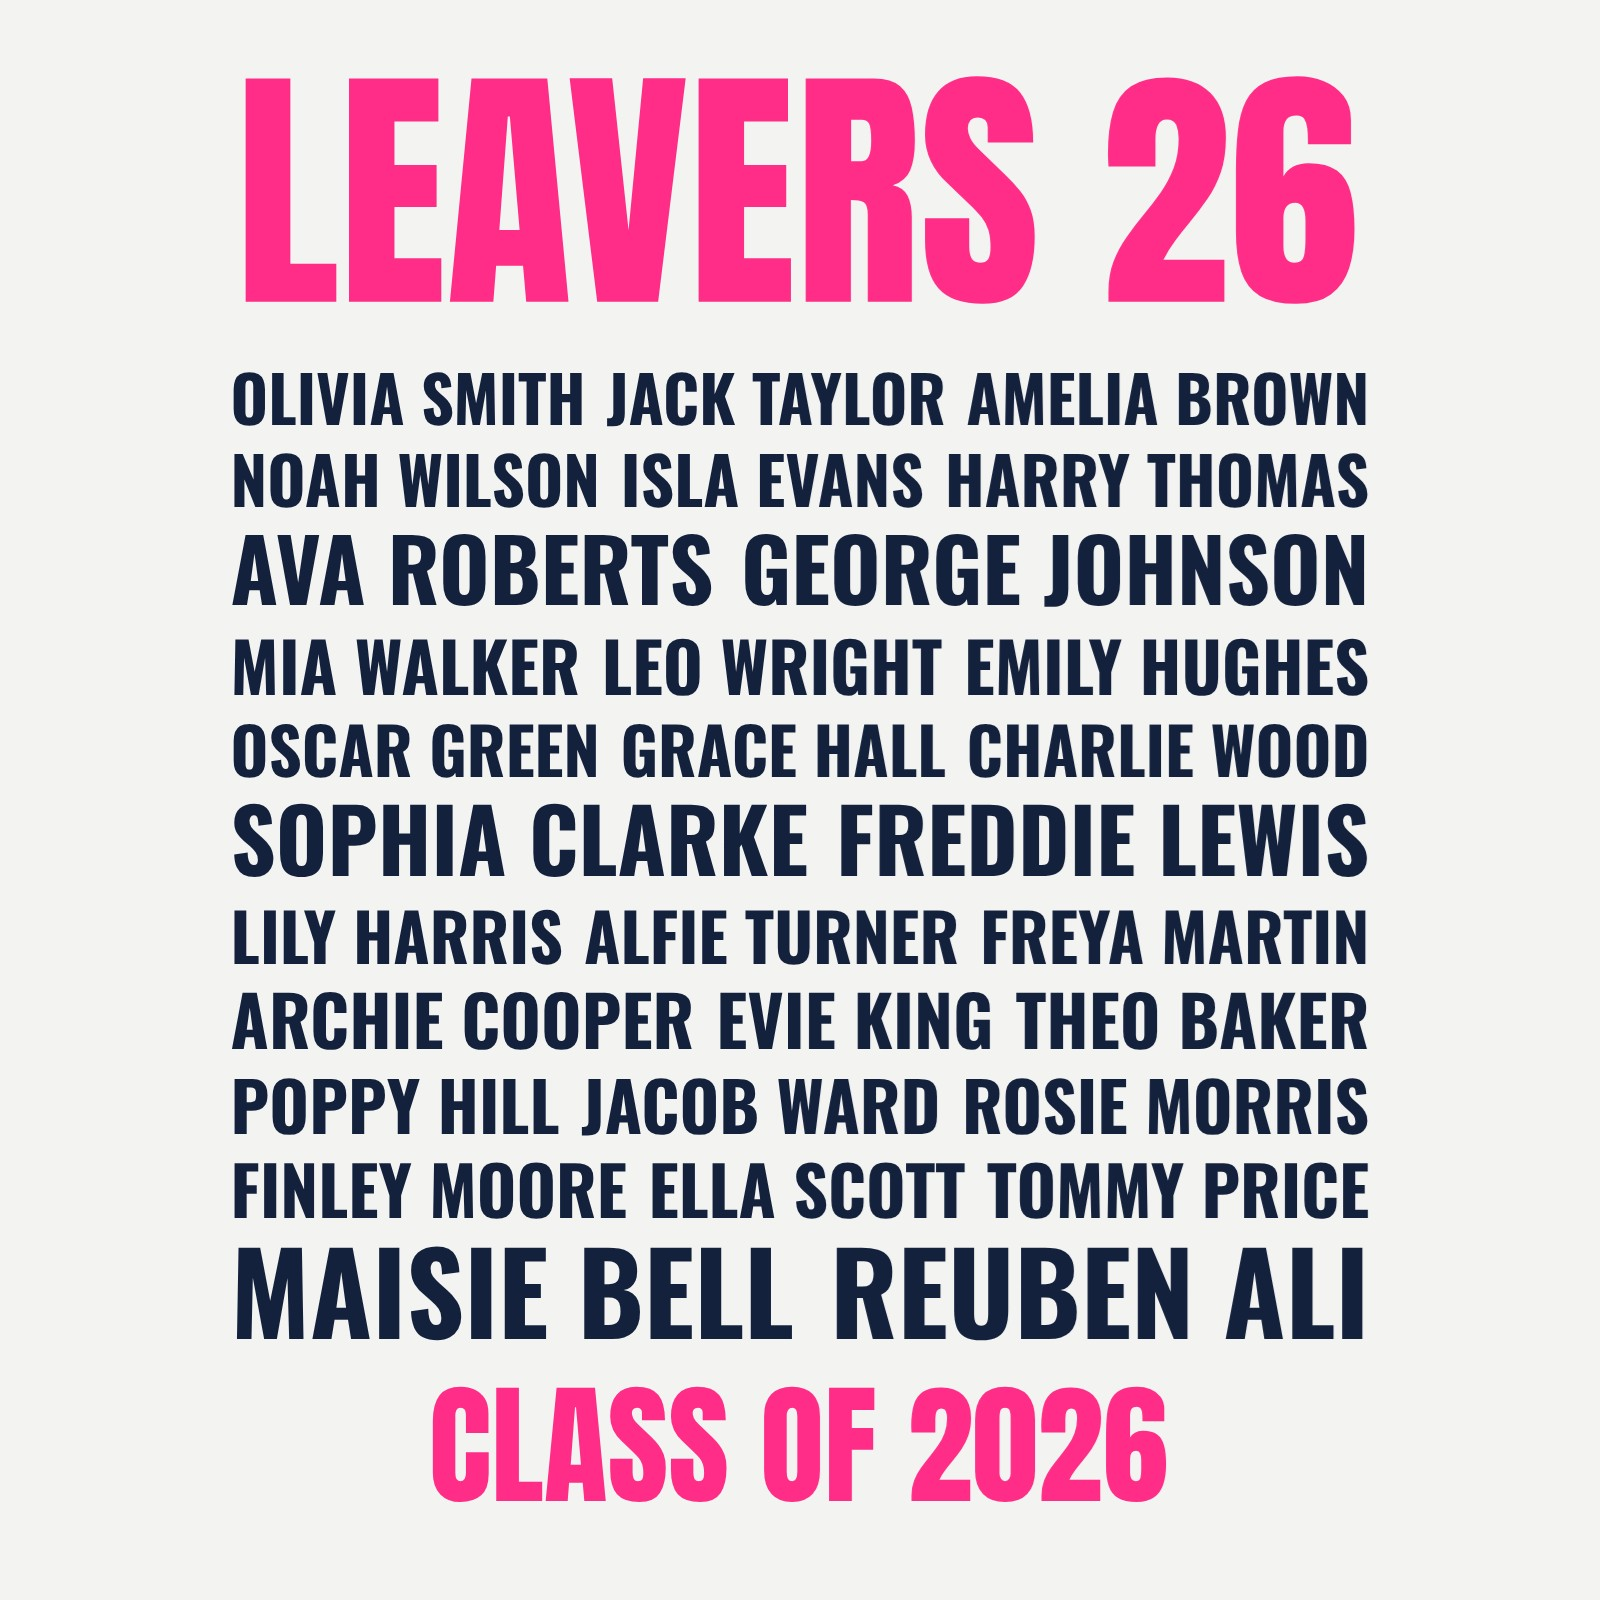
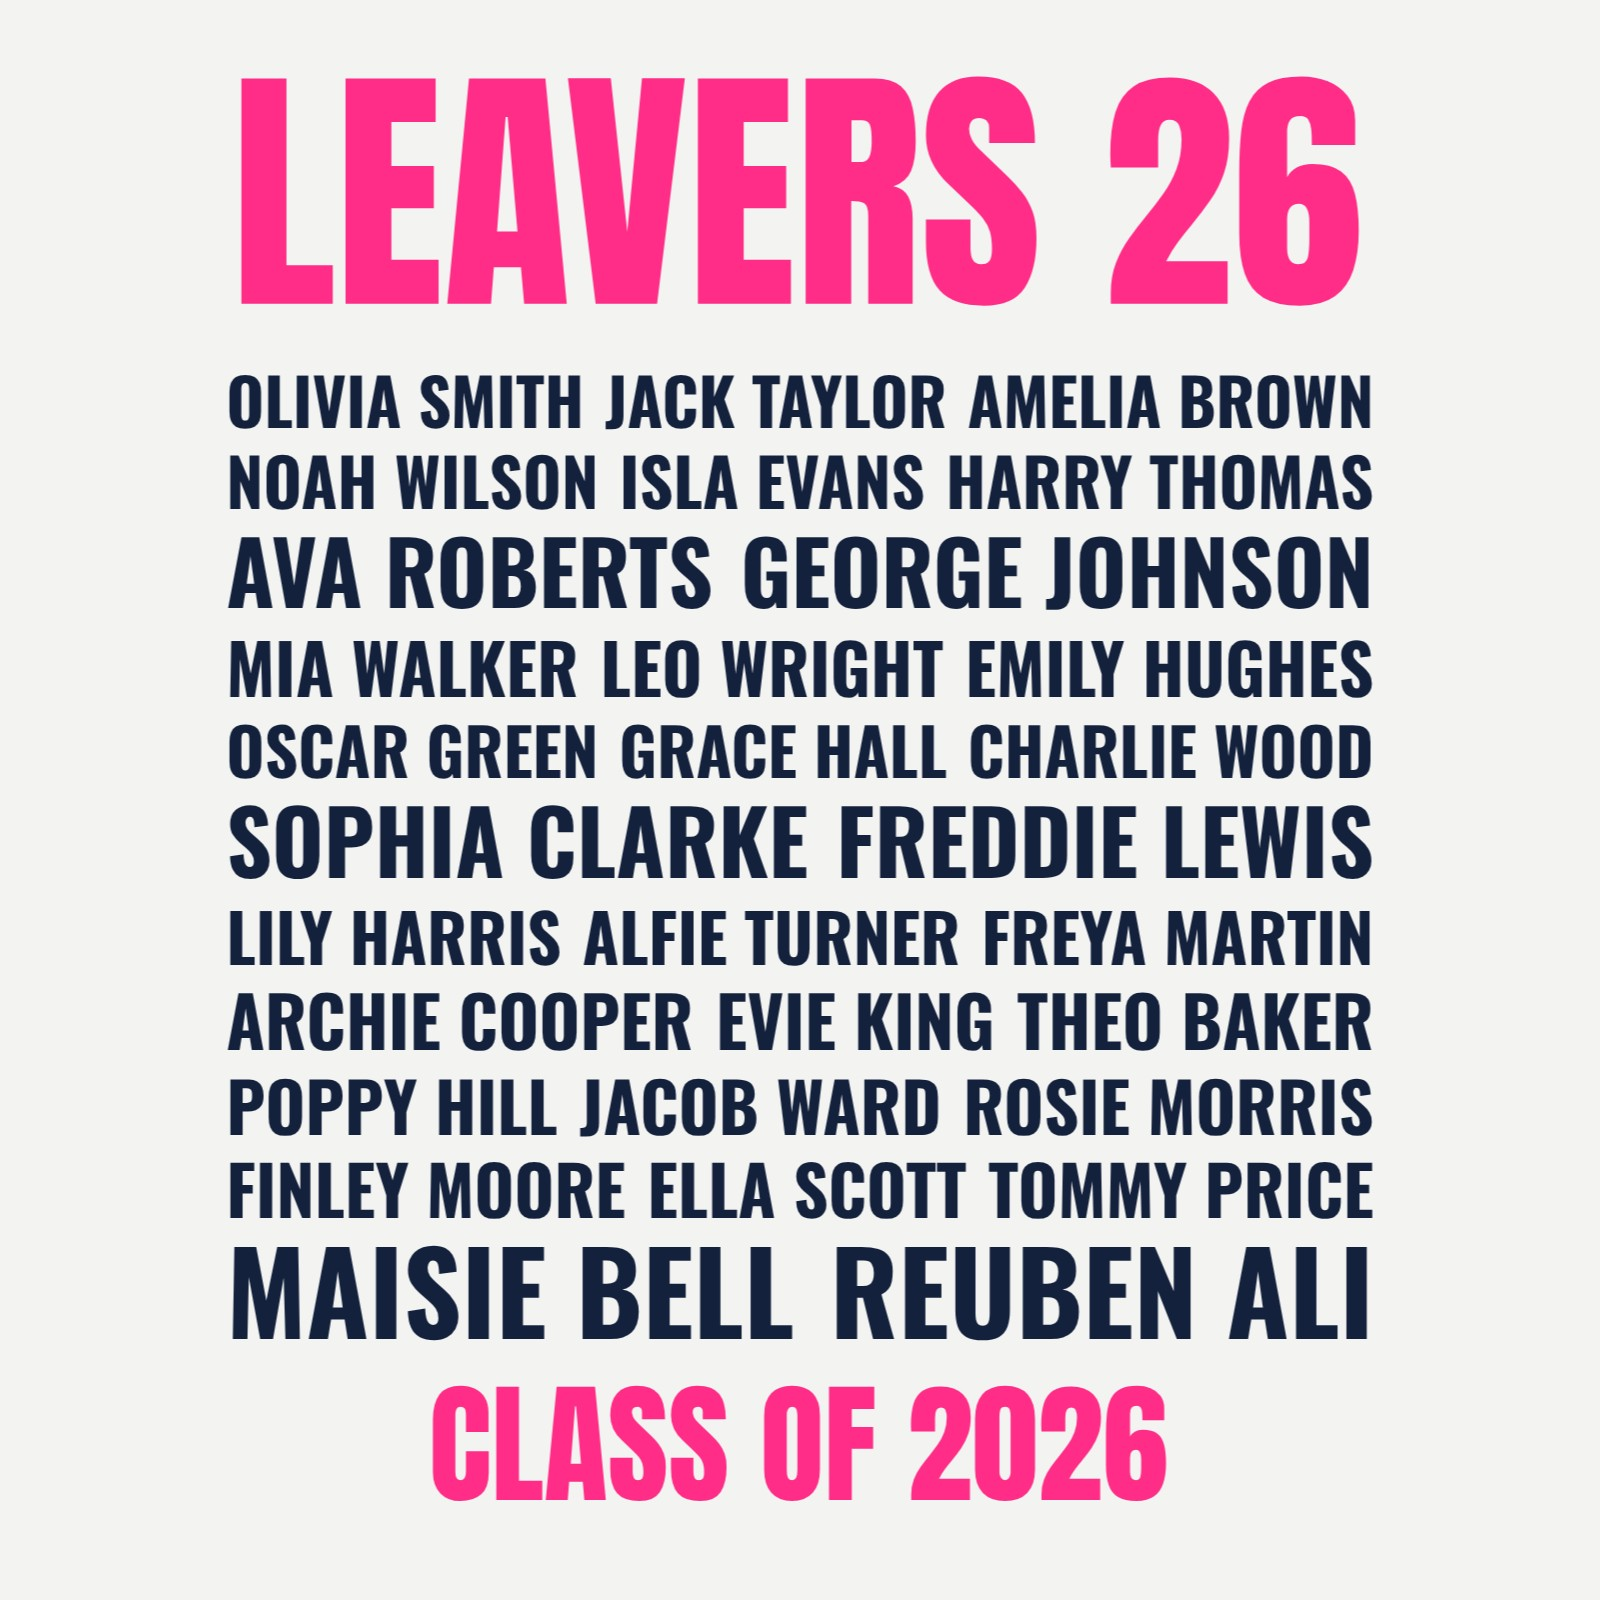
Make leavers back print much bigger
Adult back print area 300x380mm -> 350x440mm (kids 250x310 -> 290x360),
big front 280x200 -> 300x220, and the mockup scale raised so the preview
shows the back design filling the back of the hoodie. Product images
re-rendered.

Claude-Session: https://claude.ai/code/session_01MSgM9i85HvwumTiwg3Y5AK

diff --git a/leavers-designer/theme/assets/leavers-engine.js b/leavers-designer/theme/assets/leavers-engine.js
@@ -94,43 +94,43 @@
    * size for every garment, so a kids hoodie gets a bigger k).
    */
   var ADULT_AREAS = {
-    back: { w: 300, h: 380, label: 'Back' },
+    back: { w: 350, h: 440, label: 'Back' },
     chest: { w: 100, h: 100, label: 'Front left chest' },
-    centre: { w: 280, h: 200, label: 'Front centre' },
+    centre: { w: 300, h: 220, label: 'Front centre' },
     personal: { w: 90, h: 40, label: 'Front right chest' },
     sleeve: { w: 70, h: 400, label: 'Left sleeve' }
   };
   var PRODUCTS = {
     'hoodie': {
-      name: 'Classic Leavers Hoodie', mockup: 'hoodie', k: 0.85, areas: ADULT_AREAS,
+      name: 'Classic Leavers Hoodie', mockup: 'hoodie', k: 0.97, areas: ADULT_AREAS,
       sizes: ['XS', 'S', 'M', 'L', 'XL', '2XL', '3XL'], price: 24.99, upcharge: { '2XL': 2, '3XL': 2 }
     },
     'kids-hoodie': {
-      name: 'Primary Leavers Hoodie (Kids)', mockup: 'hoodie', k: 1.06,
+      name: 'Primary Leavers Hoodie (Kids)', mockup: 'hoodie', k: 1.17,
       areas: {
-        back: { w: 250, h: 310, label: 'Back' },
+        back: { w: 290, h: 360, label: 'Back' },
         chest: { w: 80, h: 80, label: 'Front left chest' },
-        centre: { w: 220, h: 160, label: 'Front centre' },
+        centre: { w: 240, h: 175, label: 'Front centre' },
         personal: { w: 75, h: 34, label: 'Front right chest' },
         sleeve: { w: 55, h: 300, label: 'Left sleeve' }
       },
       sizes: ['3-4 yrs', '5-6 yrs', '7-8 yrs', '9-11 yrs', '12-13 yrs'], price: 19.99
     },
     'zip-hoodie': {
-      name: 'Leavers Zip Hoodie', mockup: 'zip', k: 0.85,
+      name: 'Leavers Zip Hoodie', mockup: 'zip', k: 0.97,
       areas: { back: ADULT_AREAS.back, chest: ADULT_AREAS.chest, personal: ADULT_AREAS.personal, sleeve: ADULT_AREAS.sleeve },
       sizes: ['XS', 'S', 'M', 'L', 'XL', '2XL'], price: 29.99, upcharge: { '2XL': 2 }
     },
     'varsity-hoodie': {
-      name: 'Two-Tone Varsity Leavers Hoodie', mockup: 'hoodie', k: 0.85, areas: ADULT_AREAS, contrast: true,
+      name: 'Two-Tone Varsity Leavers Hoodie', mockup: 'hoodie', k: 0.97, areas: ADULT_AREAS, contrast: true,
       sizes: ['XS', 'S', 'M', 'L', 'XL', '2XL'], price: 27.99, upcharge: { '2XL': 2 }
     },
     'sweatshirt': {
-      name: 'Leavers Sweatshirt', mockup: 'sweat', k: 0.85, areas: ADULT_AREAS,
+      name: 'Leavers Sweatshirt', mockup: 'sweat', k: 0.97, areas: ADULT_AREAS,
       sizes: ['XS', 'S', 'M', 'L', 'XL', '2XL', '3XL'], price: 21.99, upcharge: { '2XL': 2, '3XL': 2 }
     },
     'tshirt': {
-      name: 'Leavers T-Shirt', mockup: 'tee', k: 0.85,
+      name: 'Leavers T-Shirt', mockup: 'tee', k: 0.97,
       areas: { back: ADULT_AREAS.back, chest: ADULT_AREAS.chest, centre: ADULT_AREAS.centre, personal: ADULT_AREAS.personal },
       sizes: ['Kids 5-6', 'Kids 7-8', 'Kids 9-11', 'Kids 12-13', 'S', 'M', 'L', 'XL', '2XL'], price: 14.99,
       upcharge: { 'Kids 5-6': -2, 'Kids 7-8': -2, 'Kids 9-11': -2, 'Kids 12-13': -2, '2XL': 2 }
@@ -896,9 +896,9 @@
   };
   // Where each print area sits on the mockup: centre x, top y, and rotation for the sleeve.
   var PLACES = {
-    back: { view: 'back', cx: 500, top: 250 },
+    back: { view: 'back', cx: 500, top: 232 },
     chest: { view: 'front', cx: 622, top: 285 },
-    centre: { view: 'front', cx: 500, top: 282 },
+    centre: { view: 'front', cx: 500, top: 268 },
     personal: { view: 'front', cx: 378, top: 300 },
     sleeve: { view: 'front', line: [772, 300, 852, 860], t: 0.47 }
   };

diff --git a/leavers-designer/README.md b/leavers-designer/README.md
@@ -20,8 +20,8 @@ A leavers-hoodie designer for foxyprinting.co.uk. Customers pick a garment colou
 
 | Garment | Tag | Print areas (mm) |
 | --- | --- | --- |
-| Classic Leavers Hoodie | `ld-hoodie` | back 300×380, chest 100×100, big front 280×200, sleeve 70×400, right chest 90×40 |
-| Primary Leavers Hoodie (Kids) | `ld-kids-hoodie` | back 250×310, chest 80×80, big front 220×160, sleeve 55×300 |
+| Classic Leavers Hoodie | `ld-hoodie` | back 350×440, chest 100×100, big front 300×220, sleeve 70×400, right chest 90×40 |
+| Primary Leavers Hoodie (Kids) | `ld-kids-hoodie` | back 290×360, chest 80×80, big front 240×175, sleeve 55×300 |
 | Leavers Zip Hoodie | `ld-zip-hoodie` | back, chest, sleeve, right chest (no centre front because of the zip) |
 | Two-Tone Varsity Leavers Hoodie | `ld-varsity-hoodie` | as the classic hoodie, plus a contrast hood/cuffs/hem colour |
 | Leavers Sweatshirt | `ld-sweatshirt` | as the classic hoodie |
